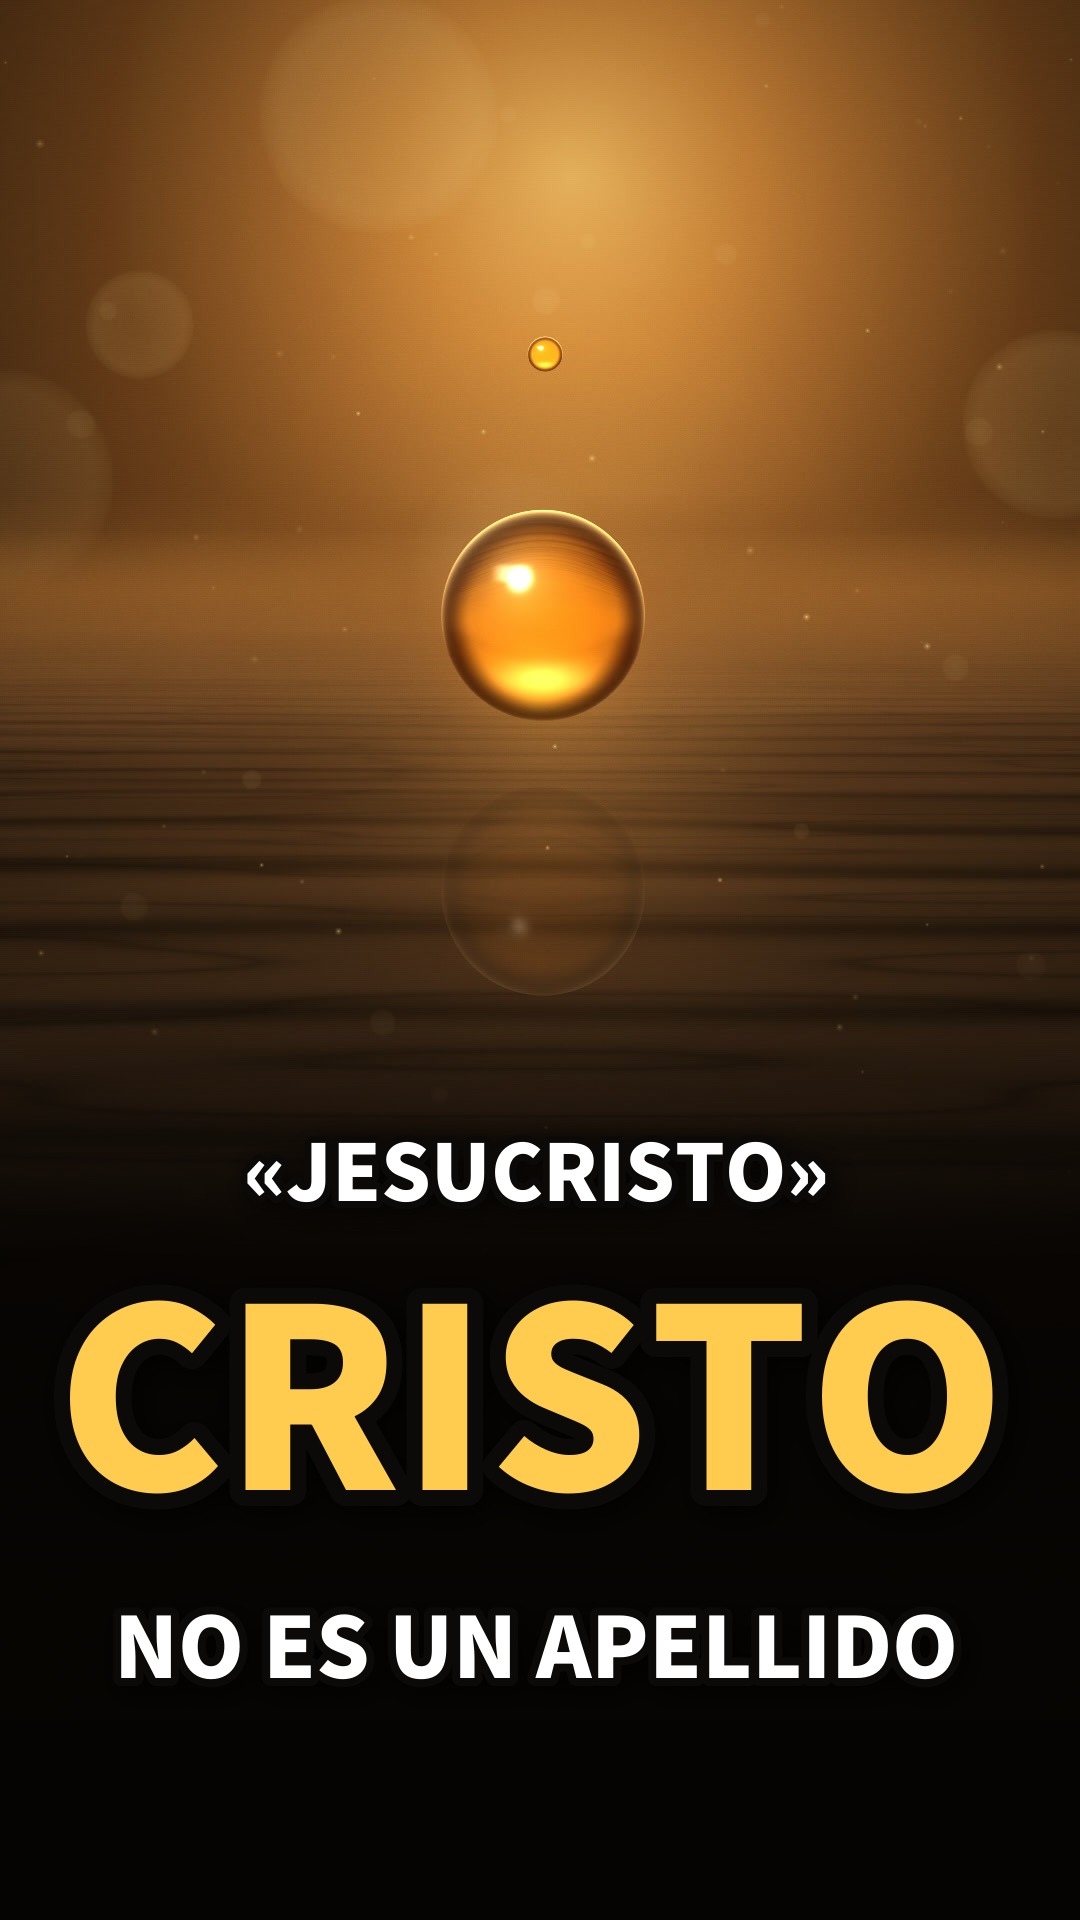
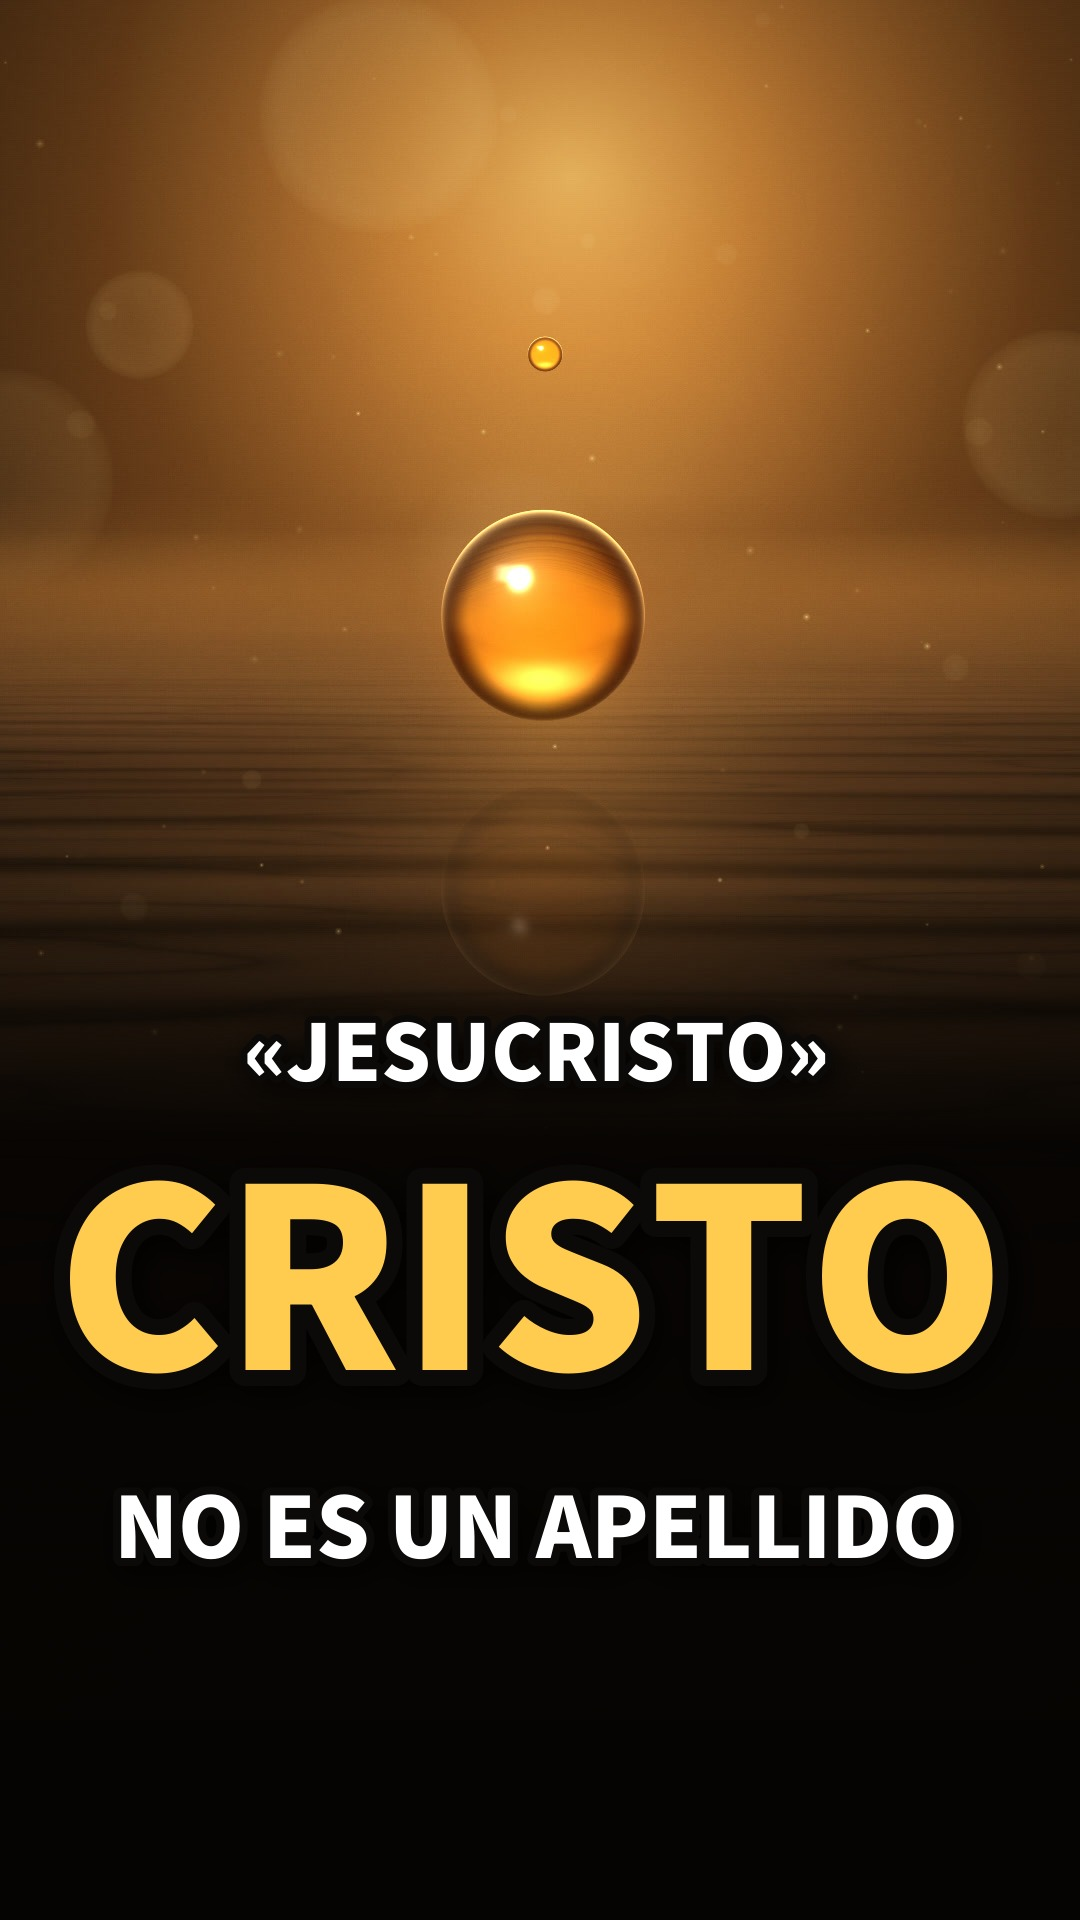
「그리스도」 국제판 검수 12건 반영 + 챕터 10초 검사
- 챕터 0:44·0:51(7초) 합침 — 한국어판·국제판 모두. sheet 단계가 이제 10초 미만 챕터를 잡는다
- 관련 동영상 안내는 위·아래 없이("눌러 이어 보세요") — upload.md·youtube.json·rules·sheet.md
- es·pt 쇼츠 첫 줄: 14분 영상이 영어판임을 밝히고 그 언어판이 채널에 있다고
- pt-BR 따옴표 «» → “”(i18n·자막·제목·썸네일), 끝 챕터·Person·es 제목·Salmo 22·태그·설명 순서
- 세로 표지 글을 120px 위로(인스타 3:4 안, 쇼츠 덮개 위) — 한국어판 V-*도

Changed region(s): [[0.0611, 0.5, 0.9167, 0.8125], [0.3667, 0.8438, 0.8861, 0.875], [0.0917, 0.8438, 0.3361, 0.875]]

diff --git a/motion/films/christ/thumbs/make.py b/motion/films/christ/thumbs/make.py
@@ -64,6 +64,9 @@ if ims:
 # The picture sits in the top part of the vertical frames; the words go in the dark band under it, all inside the middle 3:4
 # (y 240–1680 — what the Instagram profile grid shows). Frames: RENDER_QUERY=clean=1 node motion/render.mjs v … --stills 122,113.6,115.2
 VW, VH = 1080, 1920
+# LIFT: the words sit 120 px higher than the first layout — the bottom line was at 84–88 % of the height, under the Shorts overlay and
+# outside Instagram's 3:4 grid crop (y 240–1680) (native review 2026-11-16 #12, 관리자 "선택 항목도 해줘")
+LIFT = 120
 VPICS = [('V-A-oil', 'v-17_5.jpg', -200, 1.0, 'A'), ('V-B-prayer', 'v-164.jpg', -200, 1.0, 'B'), ('V-C-cross', 'v-93.jpg', -200, 1.0, 'C')]
 
 def centered(base, y, s, f, fill, stroke):
@@ -76,11 +79,11 @@ def make_v(name, src, dy, z, key='A'):
     pic = pic.resize((int(VW * z), int(VH * z)), Image.LANCZOS)
     im = Image.new('RGBA', (VW, VH), (8, 6, 4, 255)); im.paste(pic, ((VW - pic.width) // 2, dy))
     shade = Image.new('RGBA', (VW, VH)); d = ImageDraw.Draw(shade)   # darken under the picture for the words
-    for y in range(VH): d.line([(0, y), (VW, y)], fill=(6, 4, 2, int(240 * min(1, max(0, (y - 1000) / 260)))))
+    for y in range(VH): d.line([(0, y), (VW, y)], fill=(6, 4, 2, int(240 * min(1, max(0, (y - 1000 + LIFT) / 260)))))
     im.alpha_composite(shade)
-    centered(im, 1110, TOP, font(78), WHITE, 7)
-    centered(im, 1200, BIG, fit(BIG, 280, 980, 16), GOLD, 16)
-    centered(im, 1580, TAIL, font(84), WHITE, 8)
+    centered(im, 1110 - LIFT, TOP, font(78), WHITE, 7)
+    centered(im, 1200 - LIFT, BIG, fit(BIG, 280, 980, 16), GOLD, 16)
+    centered(im, 1580 - LIFT, TAIL, font(84), WHITE, 8)
     out = os.path.join(HERE, name + '.jpg'); im.convert('RGB').save(out, quality=92); print(out)
     return im
 

diff --git a/motion/films/christ/upload.md b/motion/films/christ/upload.md
@@ -15,7 +15,7 @@
 - 태그: 성경, 성경이야기, 성경 이야기, 그리스도, 그리스도 뜻, 메시야, 기름 부음 받은 자, 예수 그리스도, 마태복음 16장, 이사야 53장, 시편 22편, 사도행전 10장, 그리스도의 세 직분
 - 설명(쇼츠는 링크가 눌리지 않으니 구절 이름만):
 ```
-▶ 전체 이야기는 위 관련 동영상(14분 해설판)에서 이어 보세요.
+▶ 전체 이야기는 관련 동영상(14분 해설판)을 눌러 이어 보세요.
 
 매일 기도 끝에 부르는 '그리스도'는 예수님의 성이 아닙니다.
 왕·제사장·선지자에게 부어지던 기름, 그리고 아무도 기다리지 않았던 고난받는 그리스도 — 성경은 이미 적어 두었습니다.
@@ -62,8 +62,7 @@
 
 0:00 '그리스도'는 예수님의 성일까
 0:20 기름 부음 받은 왕·제사장·선지자
-0:44 사람들이 기다린 메시야
-0:51 베드로의 고백
+0:44 사람들이 기다린 메시야 · 베드로의 고백
 1:16 이미 적혀 있던 길
 1:27 십자가 위의 외침
 1:59 부활하신 예수님을 만난 베드로
@@ -83,10 +82,10 @@
 ▶ 성경 전체 이야기는 14분 해설판에서: https://youtu.be/wrEYqvOU1O8
 성경 전체 이야기: https://one-scroll-bible.com/?lang=ko&utm_source=youtube&utm_medium=comment&utm_campaign=film_christ
 ```
-세로판·짧은 쇼츠(링크가 안 눌림): 위 ①–③ 다음 줄을 `▶ 전체 이야기는 위 관련 동영상(14분 해설판)에서 이어 보세요.`로.
+세로판·짧은 쇼츠(링크가 안 눌림): 위 ①–③ 다음 줄을 `▶ 전체 이야기는 관련 동영상(14분 해설판)을 눌러 이어 보세요.`로.
 
 ## 짧은 쇼츠 3편 (`christ-clip-c1|c2|c3.mp4`, review.json clips) — 본편 공개 다음 날부터 1–2일 간격(주일 건너뜀)
-관련 동영상 = 「그리스도」 가로판(긴 영상 — 시청 시간이 쌓임). 설명 첫 줄 `▶ 전체 이야기는 위 관련 동영상에서`, 다음 줄에 본편 설명 첫 문단, 읽기 목록은 그 편의 구절만.
+관련 동영상 = 「그리스도」 가로판(긴 영상 — 시청 시간이 쌓임). 설명 첫 줄 `▶ 전체 이야기는 관련 동영상을 눌러 이어 보세요.`, 다음 줄에 본편 설명 첫 문단, 읽기 목록은 그 편의 구절만.
 - c1 `그리스도는 예수님의 성일까?` (0:00–0:23) — 요한복음 1:41
 - c2 `베드로는 왜 "그리 마옵소서" 했을까` (0:51–1:20) — 마태복음 16:13–23 → 이사야 53장
 - c3 `십자가의 외침, 천 년 전의 시` (1:27–1:59) — 마태복음 27:46 → 시편 22편 → 요한복음 19:23–24

diff --git a/motion/films/pipeline/tasks/sheet.md b/motion/films/pipeline/tasks/sheet.md
@@ -11,4 +11,4 @@
 **연결 규칙**(관리자 2026-11-13: "서로 연결되어야지"): 모든 영상은 세 방향으로 잇는다 — ① 같은 영상의 다른 언어(한국어 → 국제 채널, 국제 → 언어별 재생목록·한국어 원본) ② 같은 시리즈의 다른 영상(14분 ↔ 400년 ↔ 새 영상) ③ 사이트. 줄과 링크는 `motion/youtube/xlinks.json`이 원본이고, 새 영상은 ids를 uploaded.json에 넣은 뒤 `xlinks.mjs`에 종류를 하나 더하고 `node motion/youtube/xlinks.mjs audit` → `apply --dry` → `apply`. 국제판 고정 댓글에도 '오늘 읽어 볼 말씀' + 14분 언어별 목록 줄을 둔다(xlinks.mjs comment). 정기 분석이 audit을 돌려 빠진 것을 알린다.
 여러 영상·채널 설명·재생목록 이름을 줄 단위로 고칠 때: `yt-api.mjs text-edit <spec.json> --dry`(앞뒤를 out/에 저장) → `--dry` 빼고 실행.
 이미 올린 영상의 설명 고치기: `yt-api.mjs film-desc <film> <h|v|clip-a…> <videoId> --dry`(지금 설명을 out/에 저장해 원본과 같은지 먼저 확인) → `--dry` 빼고 실행.
-**세로판 설명 첫 줄과 고정 댓글**: "전체 이야기는 아래 관련 동영상(14분 해설판)에서" — 쇼츠 시청 시간은 수익 기준에 안 들어가 긴 영상으로 보낸다(rules shorts-to-long-text · long-form-watch-hours, 관리자 2026-11-16).
+**세로판 설명 첫 줄과 고정 댓글**: "전체 이야기는 관련 동영상(14분 해설판)을 눌러 이어 보세요"(위·아래 말하지 않음 — 자리가 기기마다 다름) — 쇼츠 시청 시간은 수익 기준에 안 들어가 긴 영상으로 보낸다(rules shorts-to-long-text · long-form-watch-hours, 관리자 2026-11-16).
